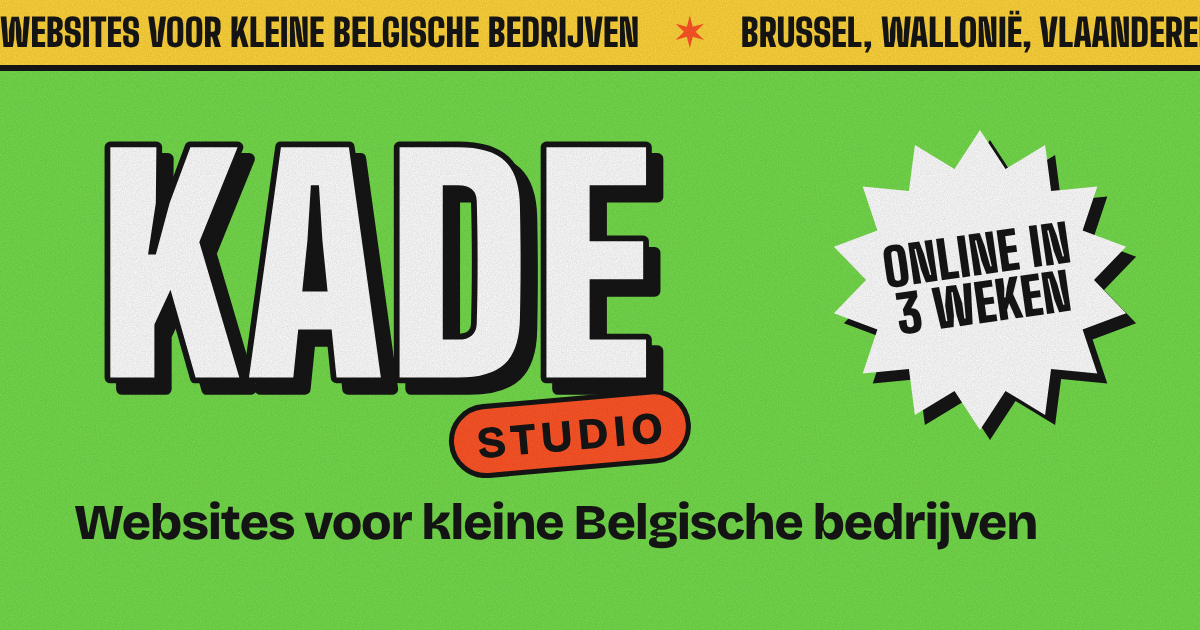
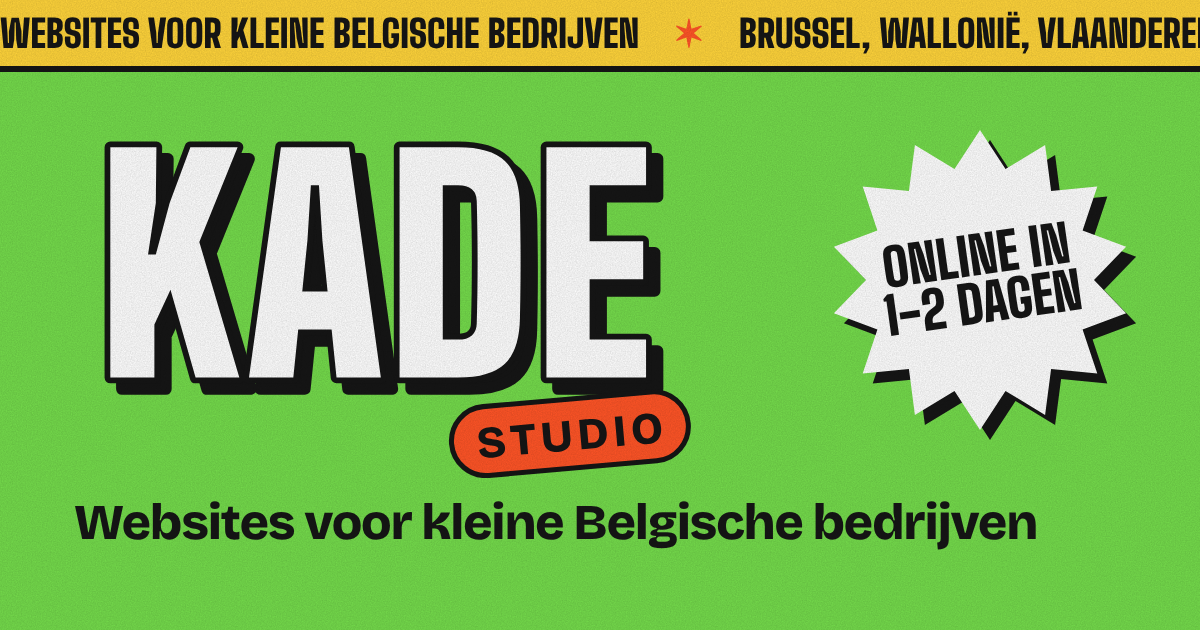
Prijzen en levertijden: Eén pagina 490 €, online in 1-2 dagen
- Eén pagina: 690 € -> 490 €; Etalage en Webshop ongewijzigd
- Levertijd Eén pagina en Etalage: 1-2 dagen; Webshop: 1 week (nieuw label)
- Werkwijze-tijdlijn: Dag 1 tot Dag 2
- nl/index.html opnieuw gebouwd met build.py
- Social media-beelden met prijs of levertijd opnieuw gegenereerd
- Video-advertentie en advertentieteksten bijgewerkt

Claude-Session: https://claude.ai/code/session_01Ahc3LpYVHVsFvBJoCmqioH

diff --git a/kade-studio/index.html b/kade-studio/index.html
@@ -309,8 +309,8 @@ body::after{content:"";position:fixed;inset:0;pointer-events:none;z-index:50;opa
 
 <div class="band" aria-hidden="true">
   <div class="band__track">
-    <span><span data-i18n="b1">Sites web pour petites entreprises belges</span></span><span><span data-i18n="b2">Bruxelles, Wallonie, Flandre</span></span><span><span data-i18n="b3">Français et Nederlands</span></span><span><span data-i18n="b4">Livré en 3 semaines</span></span>
-    <span><span data-i18n="b1">Sites web pour petites entreprises belges</span></span><span><span data-i18n="b2">Bruxelles, Wallonie, Flandre</span></span><span><span data-i18n="b3">Français et Nederlands</span></span><span><span data-i18n="b4">Livré en 3 semaines</span></span>
+    <span><span data-i18n="b1">Sites web pour petites entreprises belges</span></span><span><span data-i18n="b2">Bruxelles, Wallonie, Flandre</span></span><span><span data-i18n="b3">Français et Nederlands</span></span><span><span data-i18n="b4">Livré en 1-2 jours</span></span>
+    <span><span data-i18n="b1">Sites web pour petites entreprises belges</span></span><span><span data-i18n="b2">Bruxelles, Wallonie, Flandre</span></span><span><span data-i18n="b3">Français et Nederlands</span></span><span><span data-i18n="b4">Livré en 1-2 jours</span></span>
   </div>
 </div>
 
@@ -345,7 +345,7 @@ body::after{content:"";position:fixed;inset:0;pointer-events:none;z-index:50;opa
         <div class="poster p2"><b>Barbier<br>Atelier 12</b><small><span data-i18n="pc1">Namur. Réservation en ligne, 7j/7.</span></small><div class="dots"></div></div>
         <div class="poster p1"><b>Boulan&shy;gerie Vanhove</b><small><span data-i18n="pc2">Gand. Le levain depuis 1987.<br>Commande du pain la veille.</span></small><div class="dots"></div></div>
         <div class="poster p3"><b><span data-i18n="c5">Friterie</span><br>Chez Mo</b><small><span data-i18n="pc3">Liège. Carte, horaires, itinéraire.</span></small></div>
-        <div class="burst burst--hero"><span><span data-i18n="burst">Livré en<br>3 semaines</span></span></div>
+        <div class="burst burst--hero"><span><span data-i18n="burst">Livré en<br>1-2 jours</span></span></div>
       </div>
     </div>
     <span class="wordmark" aria-hidden="true">Kade Studio</span>
@@ -421,18 +421,18 @@ body::after{content:"";position:fixed;inset:0;pointer-events:none;z-index:50;opa
       <div class="menu">
         <article class="offer">
           <h3><span data-i18n="o1">Une page</span></h3>
-          <ul><li><span data-i18n="l1">1 page</span></li><li><span data-i18n="l2">formulaire de contact</span></li><li>Google Maps</li><li><span data-i18n="l3">10 jours</span></li></ul>
-          <p class="price">690 €<small><span data-i18n="htva">HTVA</span></small></p>
+          <ul><li><span data-i18n="l1">1 page</span></li><li><span data-i18n="l2">formulaire de contact</span></li><li>Google Maps</li><li><span data-i18n="l3">1-2 jours</span></li></ul>
+          <p class="price">490 €<small><span data-i18n="htva">HTVA</span></small></p>
         </article>
         <article class="offer offer--star">
           <span class="tag"><span data-i18n="tag">La plus choisie</span></span>
           <h3><span data-i18n="o2">Vitrine</span></h3>
-          <ul><li><span data-i18n="l4">jusqu'à 6 pages</span></li><li><span data-i18n="l5">textes rédigés</span></li><li>FR + NL</li><li><span data-i18n="l6">référencement local</span></li><li><span data-i18n="l7">3 semaines</span></li></ul>
+          <ul><li><span data-i18n="l4">jusqu'à 6 pages</span></li><li><span data-i18n="l5">textes rédigés</span></li><li>FR + NL</li><li><span data-i18n="l6">référencement local</span></li><li><span data-i18n="l7">1-2 jours</span></li></ul>
           <p class="price">1 490 €<small><span data-i18n="htva">HTVA</span></small></p>
         </article>
         <article class="offer">
           <h3><span data-i18n="o3">Boutique</span></h3>
-          <ul><li><span data-i18n="l8">e-shop</span></li><li><span data-i18n="l9">paiement Bancontact</span></li><li><span data-i18n="l10">gestion des stocks</span></li><li><span data-i18n="l11">formation incluse</span></li></ul>
+          <ul><li><span data-i18n="l8">e-shop</span></li><li><span data-i18n="l9">paiement Bancontact</span></li><li><span data-i18n="l10">gestion des stocks</span></li><li><span data-i18n="l11">formation incluse</span></li><li><span data-i18n="l12">1 semaine</span></li></ul>
           <p class="price"><span data-i18n="from">dès</span> 2 900 €<small><span data-i18n="htva">HTVA</span></small></p>
         </article>
       </div>
@@ -445,9 +445,9 @@ body::after{content:"";position:fixed;inset:0;pointer-events:none;z-index:50;opa
       <h2 id="method-title"><span data-i18n="mh">De l'appel à la mise en ligne.</span></h2>
       <ol class="steps">
         <li class="step"><h3><span data-i18n="s1">On se parle</span></h3><p><span data-i18n="s1p">30 minutes au téléphone ou autour d'un café. Vous me parlez de votre activité, je pose les questions.</span></p><span class="when"><span data-i18n="d1">Jour 1</span></span></li>
-        <li class="step"><h3><span data-i18n="s2">Je dessine</span></h3><p><span data-i18n="s2p">Je vous montre la maquette de la page d'accueil. Vous dites ce qui vous plaît et ce qui ne vous ressemble pas.</span></p><span class="when"><span data-i18n="wk1">Semaine 1</span></span></li>
-        <li class="step"><h3><span data-i18n="s3">Je construis</span></h3><p><span data-i18n="s3p">Toutes les pages, les textes, les photos, la version mobile. Vous suivez l'avancement sur un lien privé.</span></p><span class="when"><span data-i18n="wk2">Semaine 2</span></span></li>
-        <li class="step"><h3><span data-i18n="s4">On lance</span></h3><p><span data-i18n="s4p">Mise en ligne, fiche Google mise à jour, et une courte formation pour modifier vos horaires seul.</span></p><span class="when"><span data-i18n="wk3">Semaine 3</span></span></li>
+        <li class="step"><h3><span data-i18n="s2">Je dessine</span></h3><p><span data-i18n="s2p">Je vous montre la maquette de la page d'accueil. Vous dites ce qui vous plaît et ce qui ne vous ressemble pas.</span></p><span class="when"><span data-i18n="wk1">Jour 1</span></span></li>
+        <li class="step"><h3><span data-i18n="s3">Je construis</span></h3><p><span data-i18n="s3p">Toutes les pages, les textes, les photos, la version mobile. Vous suivez l'avancement sur un lien privé.</span></p><span class="when"><span data-i18n="wk2">Jour 1-2</span></span></li>
+        <li class="step"><h3><span data-i18n="s4">On lance</span></h3><p><span data-i18n="s4p">Mise en ligne, fiche Google mise à jour, et une courte formation pour modifier vos horaires seul.</span></p><span class="when"><span data-i18n="wk3">Jour 2</span></span></li>
       </ol>
     </div>
   </section>

diff --git a/kade-studio/nl/index.html b/kade-studio/nl/index.html
@@ -309,8 +309,8 @@ body::after{content:"";position:fixed;inset:0;pointer-events:none;z-index:50;opa
 
 <div class="band" aria-hidden="true">
   <div class="band__track">
-    <span><span data-i18n="b1">Websites voor kleine Belgische bedrijven</span></span><span><span data-i18n="b2">Brussel, Wallonië, Vlaanderen</span></span><span><span data-i18n="b3">Nederlands en Frans</span></span><span><span data-i18n="b4">Online in 3 weken</span></span>
-    <span><span data-i18n="b1">Websites voor kleine Belgische bedrijven</span></span><span><span data-i18n="b2">Brussel, Wallonië, Vlaanderen</span></span><span><span data-i18n="b3">Nederlands en Frans</span></span><span><span data-i18n="b4">Online in 3 weken</span></span>
+    <span><span data-i18n="b1">Websites voor kleine Belgische bedrijven</span></span><span><span data-i18n="b2">Brussel, Wallonië, Vlaanderen</span></span><span><span data-i18n="b3">Nederlands en Frans</span></span><span><span data-i18n="b4">Online in 1-2 dagen</span></span>
+    <span><span data-i18n="b1">Websites voor kleine Belgische bedrijven</span></span><span><span data-i18n="b2">Brussel, Wallonië, Vlaanderen</span></span><span><span data-i18n="b3">Nederlands en Frans</span></span><span><span data-i18n="b4">Online in 1-2 dagen</span></span>
   </div>
 </div>
 
@@ -345,7 +345,7 @@ body::after{content:"";position:fixed;inset:0;pointer-events:none;z-index:50;opa
         <div class="poster p2"><b>Barbier<br>Atelier 12</b><small><span data-i18n="pc1">Namen. Online reserveren, 7 dagen op 7.</span></small><div class="dots"></div></div>
         <div class="poster p1"><b>Boulan&shy;gerie Vanhove</b><small><span data-i18n="pc2">Gent. Zuurdesem sinds 1987.<br>Brood bestellen de dag ervoor.</span></small><div class="dots"></div></div>
         <div class="poster p3"><b><span data-i18n="c5">Frituur</span><br>Chez Mo</b><small><span data-i18n="pc3">Luik. Menu, openingsuren, route.</span></small></div>
-        <div class="burst burst--hero"><span><span data-i18n="burst">Online in<br>3 weken</span></span></div>
+        <div class="burst burst--hero"><span><span data-i18n="burst">Online in<br>1-2 dagen</span></span></div>
       </div>
     </div>
     <span class="wordmark" aria-hidden="true">Kade Studio</span>
@@ -421,18 +421,18 @@ body::after{content:"";position:fixed;inset:0;pointer-events:none;z-index:50;opa
       <div class="menu">
         <article class="offer">
           <h3><span data-i18n="o1">Eén pagina</span></h3>
-          <ul><li><span data-i18n="l1">1 pagina</span></li><li><span data-i18n="l2">contactformulier</span></li><li>Google Maps</li><li><span data-i18n="l3">10 dagen</span></li></ul>
-          <p class="price">690 €<small><span data-i18n="htva">excl. btw</span></small></p>
+          <ul><li><span data-i18n="l1">1 pagina</span></li><li><span data-i18n="l2">contactformulier</span></li><li>Google Maps</li><li><span data-i18n="l3">1-2 dagen</span></li></ul>
+          <p class="price">490 €<small><span data-i18n="htva">excl. btw</span></small></p>
         </article>
         <article class="offer offer--star">
           <span class="tag"><span data-i18n="tag">Meest gekozen</span></span>
           <h3><span data-i18n="o2">Etalage</span></h3>
-          <ul><li><span data-i18n="l4">tot 6 pagina's</span></li><li><span data-i18n="l5">teksten geschreven</span></li><li>FR + NL</li><li><span data-i18n="l6">lokale SEO</span></li><li><span data-i18n="l7">3 weken</span></li></ul>
+          <ul><li><span data-i18n="l4">tot 6 pagina's</span></li><li><span data-i18n="l5">teksten geschreven</span></li><li>FR + NL</li><li><span data-i18n="l6">lokale SEO</span></li><li><span data-i18n="l7">1-2 dagen</span></li></ul>
           <p class="price">1 490 €<small><span data-i18n="htva">excl. btw</span></small></p>
         </article>
         <article class="offer">
           <h3><span data-i18n="o3">Webshop</span></h3>
-          <ul><li><span data-i18n="l8">webshop</span></li><li><span data-i18n="l9">betalen met Bancontact</span></li><li><span data-i18n="l10">voorraadbeheer</span></li><li><span data-i18n="l11">opleiding inbegrepen</span></li></ul>
+          <ul><li><span data-i18n="l8">webshop</span></li><li><span data-i18n="l9">betalen met Bancontact</span></li><li><span data-i18n="l10">voorraadbeheer</span></li><li><span data-i18n="l11">opleiding inbegrepen</span></li><li><span data-i18n="l12">1 week</span></li></ul>
           <p class="price"><span data-i18n="from">vanaf</span> 2 900 €<small><span data-i18n="htva">excl. btw</span></small></p>
         </article>
       </div>
@@ -445,9 +445,9 @@ body::after{content:"";position:fixed;inset:0;pointer-events:none;z-index:50;opa
       <h2 id="method-title"><span data-i18n="mh">Van eerste gesprek tot lancering.</span></h2>
       <ol class="steps">
         <li class="step"><h3><span data-i18n="s1">We praten</span></h3><p><span data-i18n="s1p">30 minuten aan de telefoon of bij een koffie. U vertelt over uw zaak, ik stel de vragen.</span></p><span class="when"><span data-i18n="d1">Dag 1</span></span></li>
-        <li class="step"><h3><span data-i18n="s2">Ik ontwerp</span></h3><p><span data-i18n="s2p">Ik toon u het ontwerp van de homepage. U zegt wat u bevalt en wat niet bij u past.</span></p><span class="when"><span data-i18n="wk1">Week 1</span></span></li>
-        <li class="step"><h3><span data-i18n="s3">Ik bouw</span></h3><p><span data-i18n="s3p">Alle pagina's, teksten, foto's en de mobiele versie. U volgt de voortgang via een privélink.</span></p><span class="when"><span data-i18n="wk2">Week 2</span></span></li>
-        <li class="step"><h3><span data-i18n="s4">We lanceren</span></h3><p><span data-i18n="s4p">Online zetten, Google-bedrijfsprofiel bijgewerkt, en een korte opleiding om zelf uw openingsuren aan te passen.</span></p><span class="when"><span data-i18n="wk3">Week 3</span></span></li>
+        <li class="step"><h3><span data-i18n="s2">Ik ontwerp</span></h3><p><span data-i18n="s2p">Ik toon u het ontwerp van de homepage. U zegt wat u bevalt en wat niet bij u past.</span></p><span class="when"><span data-i18n="wk1">Dag 1</span></span></li>
+        <li class="step"><h3><span data-i18n="s3">Ik bouw</span></h3><p><span data-i18n="s3p">Alle pagina's, teksten, foto's en de mobiele versie. U volgt de voortgang via een privélink.</span></p><span class="when"><span data-i18n="wk2">Dag 1-2</span></span></li>
+        <li class="step"><h3><span data-i18n="s4">We lanceren</span></h3><p><span data-i18n="s4p">Online zetten, Google-bedrijfsprofiel bijgewerkt, en een korte opleiding om zelf uw openingsuren aan te passen.</span></p><span class="when"><span data-i18n="wk3">Dag 2</span></span></li>
       </ol>
     </div>
   </section>

diff --git a/kade-studio/brand/video/source/ad-nl.html b/kade-studio/brand/video/source/ad-nl.html
@@ -61,7 +61,7 @@ html,body{width:1080px;height:1920px;overflow:hidden;background:var(--acid)}
   <p class="abs poster" id="price" style="left:62px;top:600px;font-size:440px;font-variant-numeric:tabular-nums;color:var(--white);-webkit-text-stroke:12px var(--ink);paint-order:stroke fill;text-shadow:18px 18px 0 var(--ink)">0 €</p>
   <p class="abs mono" id="tax" style="left:80px;top:1000px;font-size:52px">excl. btw</p>
   <div class="abs bsh" id="b4s" style="left:615px;top:1035px;width:400px;height:400px"></div>
-  <div class="abs burst" id="b4" style="left:600px;top:1020px;width:400px;height:400px;font-size:74px"><span style="transform:rotate(-8deg)">Online in<br>3 weken</span></div>
+  <div class="abs burst" id="b4" style="left:600px;top:1020px;width:400px;height:400px;font-size:74px"><span style="transform:rotate(-8deg)">Online in<br>1-2 dagen</span></div>
 </div>
 
 <!-- SCENE 5: logo + actie -->
@@ -123,7 +123,7 @@ function render(t){
   // S4: vaste prijs
   set('s4h',{transform:`translateY(${lerp(-500,0,oq(p(t,7.85,8.2)))}px)`});
   set('frm',{opacity:p(t,8.1,8.2)});
-  $('price').textContent=Math.round(690*oc(p(t,8.15,9.0)))+' €';
+  $('price').textContent=Math.round(490*oc(p(t,8.15,9.0)))+' €';
   set('price',{transform:`scale(${t>9&&t<9.25?1+.06*Math.sin(p(t,9,9.25)*Math.PI):1})`,transformOrigin:'0 50%'});
   set('tax',{opacity:p(t,9.0,9.1)});
   const b4=ob(p(t,9.2,9.55));for(const id of ['b4','b4s'])set(id,{transform:`scale(${b4}) rotate(${(t-9.2)*40}deg)`,opacity:t>9.2?1:0});

diff --git a/kade-studio/brand/video/source/ad-fr.html b/kade-studio/brand/video/source/ad-fr.html
@@ -61,7 +61,7 @@ html,body{width:1080px;height:1920px;overflow:hidden;background:var(--acid)}
   <p class="abs poster" id="price" style="left:62px;top:600px;font-size:440px;font-variant-numeric:tabular-nums;color:var(--white);-webkit-text-stroke:12px var(--ink);paint-order:stroke fill;text-shadow:18px 18px 0 var(--ink)">0 €</p>
   <p class="abs mono" id="tax" style="left:80px;top:1000px;font-size:52px">HTVA</p>
   <div class="abs bsh" id="b4s" style="left:615px;top:1035px;width:400px;height:400px"></div>
-  <div class="abs burst" id="b4" style="left:600px;top:1020px;width:400px;height:400px;font-size:74px"><span style="transform:rotate(-8deg)">Livré en<br>3 semaines</span></div>
+  <div class="abs burst" id="b4" style="left:600px;top:1020px;width:400px;height:400px;font-size:74px"><span style="transform:rotate(-8deg)">Livré en<br>1-2 jours</span></div>
 </div>
 
 <!-- SCENE 5: logo + actie -->
@@ -123,7 +123,7 @@ function render(t){
   // S4: vaste prijs
   set('s4h',{transform:`translateY(${lerp(-500,0,oq(p(t,7.85,8.2)))}px)`});
   set('frm',{opacity:p(t,8.1,8.2)});
-  $('price').textContent=Math.round(690*oc(p(t,8.15,9.0)))+' €';
+  $('price').textContent=Math.round(490*oc(p(t,8.15,9.0)))+' €';
   set('price',{transform:`scale(${t>9&&t<9.25?1+.06*Math.sin(p(t,9,9.25)*Math.PI):1})`,transformOrigin:'0 50%'});
   set('tax',{opacity:p(t,9.0,9.1)});
   const b4=ob(p(t,9.2,9.55));for(const id of ['b4','b4s'])set(id,{transform:`scale(${b4}) rotate(${(t-9.2)*40}deg)`,opacity:t>9.2?1:0});

diff --git a/kade-studio/brand/source/social.py b/kade-studio/brand/source/social.py
@@ -51,8 +51,8 @@ HANDLE="@kadestudio"
 L={
 'fr':dict(band=["Sites web pour petites entreprises belges","Bruxelles, Wallonie, Flandre","Français et Nederlands"],
   h1='Des sites web qui ont de la <em>gueule.</em>',sub="Sites vitrines pour les petites entreprises belges.",
-  formule="Formule",offer="Vitrine",price="1 490 €",tax="HTVA",pills=["jusqu'à 6 pages","textes rédigés","FR + NL","référencement local","3 semaines"],
-  fast="Livré en<br>3 semaines",fast_sub="De l'appel à la mise en ligne. Prix fixe, annoncé avant de commencer.",
+  formule="Formule",offer="Vitrine",price="1 490 €",tax="HTVA",pills=["jusqu'à 6 pages","textes rédigés","FR + NL","référencement local","1-2 jours"],
+  fast="Livré en<br>1-2 jours",fast_sub="De l'appel à la mise en ligne. Prix fixe, annoncé avant de commencer.",
   who="Le commerce<br>du coin",who_p="Horaires à jour, produits en photo, itinéraire en un clic. Les gens vous trouvent et passent la porte.",
   newsite="Nouveau site<br>en ligne",client="Nom du client, Ville",shot="Votre capture ici",
   tip="Astuce",tip_h="Vos horaires sur Google sont à jour?",tip_p="C'est la première chose que vos clients regardent. Vérifiez-les avant chaque jour férié.",
@@ -61,8 +61,8 @@ L={
   hl=[("Travaux","var(--sun)"),("Offres","var(--acid)"),("Avis","var(--bubble)"),("Contact","var(--cobalt)")]),
 'nl':dict(band=["Websites voor kleine Belgische bedrijven","Brussel, Wallonië, Vlaanderen","Nederlands en Frans"],
   h1='Websites die <em>opvallen.</em>',sub="Websites voor kleine Belgische bedrijven.",
-  formule="Formule",offer="Etalage",price="1 490 €",tax="excl. btw",pills=["tot 6 pagina's","teksten geschreven","NL + FR","lokale SEO","3 weken"],
-  fast="Online in<br>3 weken",fast_sub="Van eerste gesprek tot lancering. Vaste prijs, vooraf meegedeeld.",
+  formule="Formule",offer="Etalage",price="1 490 €",tax="excl. btw",pills=["tot 6 pagina's","teksten geschreven","NL + FR","lokale SEO","1-2 dagen"],
+  fast="Online in<br>1-2 dagen",fast_sub="Van eerste gesprek tot lancering. Vaste prijs, vooraf meegedeeld.",
   who="De winkel<br>om de hoek",who_p="Openingsuren up-to-date, producten in beeld, route in één klik. Mensen vinden u en stappen binnen.",
   newsite="Nieuwe site<br>online",client="Naam klant, Stad",shot="Uw screenshot hier",
   tip="Tip",tip_h="Kloppen uw openingsuren op Google?",tip_p="Dat is het eerste wat klanten bekijken. Controleer ze voor elke feestdag.",
@@ -144,14 +144,14 @@ for lg,t in L.items():
 FP={
 'fr':dict(s1a="Kade Studio",s1b="est ouvert.",swipe="Glissez",
   s2="Un client vous cherche sur Google.",s2b="Il trouve quoi?",s2c="Pas de site, des horaires faux, une photo floue de 2017. Il va chez le voisin.",
-  s3="Un site clair, rapide, en FR et NL.",s3p=["Horaires et itinéraire","Lisible sur téléphone","Trouvable sur Google"],s3s="Livré en<br>3 semaines",
-  s4="Prix fixe.",s4b="Annoncé avant de commencer.",rows=[("Une page","690 €"),("Vitrine","1 490 €"),("Boutique","dès 2 900 €")],tax="Montants HTVA",
+  s3="Un site clair, rapide, en FR et NL.",s3p=["Horaires et itinéraire","Lisible sur téléphone","Trouvable sur Google"],s3s="Livré en<br>1-2 jours",
+  s4="Prix fixe.",s4b="Annoncé avant de commencer.",rows=[("Une page","490 €"),("Vitrine","1 490 €"),("Boutique","dès 2 900 €")],tax="Montants HTVA",
   s5="Votre devis est gratuit.",s5p="Dites-moi votre métier et votre ville. Je vous réponds sous 24 h ouvrables.",bio="Lien<br>en bio",
   og="Sites web pour petites entreprises belges"),
 'nl':dict(s1a="Kade Studio",s1b="is open.",swipe="Swipe",
   s2="Een klant zoekt u op Google.",s2b="Wat vindt die?",s2c="Geen website, verkeerde openingsuren, een wazige foto uit 2017. Die gaat naar de buren.",
-  s3="Een heldere, snelle site, in NL en FR.",s3p=["Openingsuren en route","Leesbaar op de gsm","Vindbaar op Google"],s3s="Online in<br>3 weken",
-  s4="Vaste prijs.",s4b="Vooraf meegedeeld.",rows=[("Eén pagina","690 €"),("Etalage","1 490 €"),("Webshop","vanaf 2 900 €")],tax="Bedragen excl. btw",
+  s3="Een heldere, snelle site, in NL en FR.",s3p=["Openingsuren en route","Leesbaar op de gsm","Vindbaar op Google"],s3s="Online in<br>1-2 dagen",
+  s4="Vaste prijs.",s4b="Vooraf meegedeeld.",rows=[("Eén pagina","490 €"),("Etalage","1 490 €"),("Webshop","vanaf 2 900 €")],tax="Bedragen excl. btw",
   s5="Uw offerte is gratis.",s5p="Vertel me uw vak en uw stad. U krijgt antwoord binnen 24 werkuren.",bio="Link<br>in bio",
   og="Websites voor kleine Belgische bedrijven"),
 }

diff --git a/kade-studio/brand/video/source/make_ad.py b/kade-studio/brand/video/source/make_ad.py
@@ -9,13 +9,13 @@ T = {
  "fr": dict(s1h="Votre client<br>vous cherche.", query="boulangerie wavre", zero="0 résultat", none="Aucun site trouvé.",
             s2b="Chez le<br>voisin&nbsp;?", l3a="On crée", l3b="votre", l3c="site web.", s3p="Pour les petites entreprises belges. Clair, rapide, FR&nbsp;+&nbsp;NL.",
             s3=["Clair.", "Rapide sur mobile.", "FR + NL.", "Trouvable."],
-            s4="Prix fixe", frm="dès", tax="HTVA", burst="Livré en<br>3 semaines",
+            s4="Prix fixe", frm="dès", tax="HTVA", burst="Livré en<br>1-2 jours",
             cta="Demander un devis", bio="Lien<br>en bio", url="kadestudio.be",
             band=["Sites web pour petites entreprises belges", "Prix fixe", "FR + NL"]),
  "nl": dict(s1h="Uw klant<br>zoekt u.", query="bakkerij leuven", zero="0 resultaten", none="Geen website gevonden.",
             s2b="Bij de<br>buren?", l3a="Wij maken", l3b="uw", l3c="website.", s3p="Voor kleine Belgische zaken. Helder, snel, NL&nbsp;+&nbsp;FR.",
             s3=["Helder.", "Snel op de gsm.", "NL + FR.", "Vindbaar."],
-            s4="Vaste prijs", frm="vanaf", tax="excl. btw", burst="Online in<br>3 weken",
+            s4="Vaste prijs", frm="vanaf", tax="excl. btw", burst="Online in<br>1-2 dagen",
             cta="Offerte aanvragen", bio="Link<br>in bio", url="kadestudio.be",
             band=["Websites voor kleine Belgische bedrijven", "Vaste prijs", "NL + FR"]),
 }
@@ -153,7 +153,7 @@ function render(t){
   // S4: vaste prijs
   set('s4h',{transform:`translateY(${lerp(-500,0,oq(p(t,7.85,8.2)))}px)`});
   set('frm',{opacity:p(t,8.1,8.2)});
-  $('price').textContent=Math.round(690*oc(p(t,8.15,9.0)))+' €';
+  $('price').textContent=Math.round(490*oc(p(t,8.15,9.0)))+' €';
   set('price',{transform:`scale(${t>9&&t<9.25?1+.06*Math.sin(p(t,9,9.25)*Math.PI):1})`,transformOrigin:'0 50%'});
   set('tax',{opacity:p(t,9.0,9.1)});
   const b4=ob(p(t,9.2,9.55));for(const id of ['b4','b4s'])set(id,{transform:`scale(${b4}) rotate(${(t-9.2)*40}deg)`,opacity:t>9.2?1:0});

diff --git a/kade-studio/brand/video/README.md b/kade-studio/brand/video/README.md
@@ -37,18 +37,18 @@ ffmpeg -framerate 30 -i frames-nl/%04d.jpg -vf crop=1080:1350:0:285 -c:v libx264
 0-3 s: "Uw klant zoekt u." Cursor typt een zoekopdracht, er is geen website, met een 404-stempel.
 3-4,8 s: "Bij de buren?"
 4,8-7,8 s: "Wij maken uw website." Voor kleine Belgische zaken. Helder, snel, NL + FR.
-7,8-10,6 s: Vaste prijs vanaf 690 € excl. btw, sticker "Online in 3 weken".
+7,8-10,6 s: Vaste prijs vanaf 490 € excl. btw, sticker "Online in 1-2 dagen".
 10,6-13,5 s: Logo, cursor klikt op "Offerte aanvragen", "Link in bio".
 
 Alle bewegingen zijn vloeiend (ease-out); scènes schuiven over elkaar zonder pauze.
 
 ## Advertentietekst voor Meta Ads Manager
 **NL**
-- Primaire tekst: Uw klanten zoeken u op Google. Vinden ze iets? Kade Studio maakt heldere websites voor kleine Belgische bedrijven, in het Nederlands en het Frans. Vaste prijs, online in 3 weken.
-- Kop: Uw website, vanaf 690 € excl. btw
+- Primaire tekst: Uw klanten zoeken u op Google. Vinden ze iets? Kade Studio maakt heldere websites voor kleine Belgische bedrijven, in het Nederlands en het Frans. Vaste prijs, online in 1-2 dagen.
+- Kop: Uw website, vanaf 490 € excl. btw
 - Knop: Offerte aanvragen
 
 **FR**
-- Texte principal : Vos clients vous cherchent sur Google. Ils trouvent quoi ? Kade Studio crée des sites clairs pour les petites entreprises belges, en français et en néerlandais. Prix fixe, livré en 3 semaines.
-- Titre : Votre site web, dès 690 € HTVA
+- Texte principal : Vos clients vous cherchent sur Google. Ils trouvent quoi ? Kade Studio crée des sites clairs pour les petites entreprises belges, en français et en néerlandais. Prix fixe, livré en 1-2 jours.
+- Titre : Votre site web, dès 490 € HTVA
 - Bouton : Demander un devis

diff --git a/kade-studio/README.md b/kade-studio/README.md
@@ -23,7 +23,7 @@ Statische site, geen installatie nodig. Upload de hele map `kade-studio/` naar j
 - [ ] **E-mail**: `hello@kadestudio.be` (index.html en `STR` onderaan in het script).
 - [ ] **Ondernemingsnummer**: `BE 0XXX.XXX.XXX` in de footer. Wettelijk verplicht op een Belgische zakelijke website, samen met je adres.
 - [ ] **Statistieken**: haal de commentaartekens weg rond de Plausible-regels in `<head>`. De klik- en aanvraag-events worden al verstuurd.
-- [ ] **Prijzen en termijnen** nakijken: 690 €, 1 490 €, vanaf 2 900 €, 39 €/maand, 3 weken, 24 uur.
+- [ ] **Prijzen en termijnen** nakijken: 490 €, 1 490 €, vanaf 2 900 €, 39 €/maand, 1-2 dagen (webshop 1 week), 24 uur.
 
 ## Wat er gemeten wordt (`dataLayer` en Plausible)
 | Event | Wanneer |
